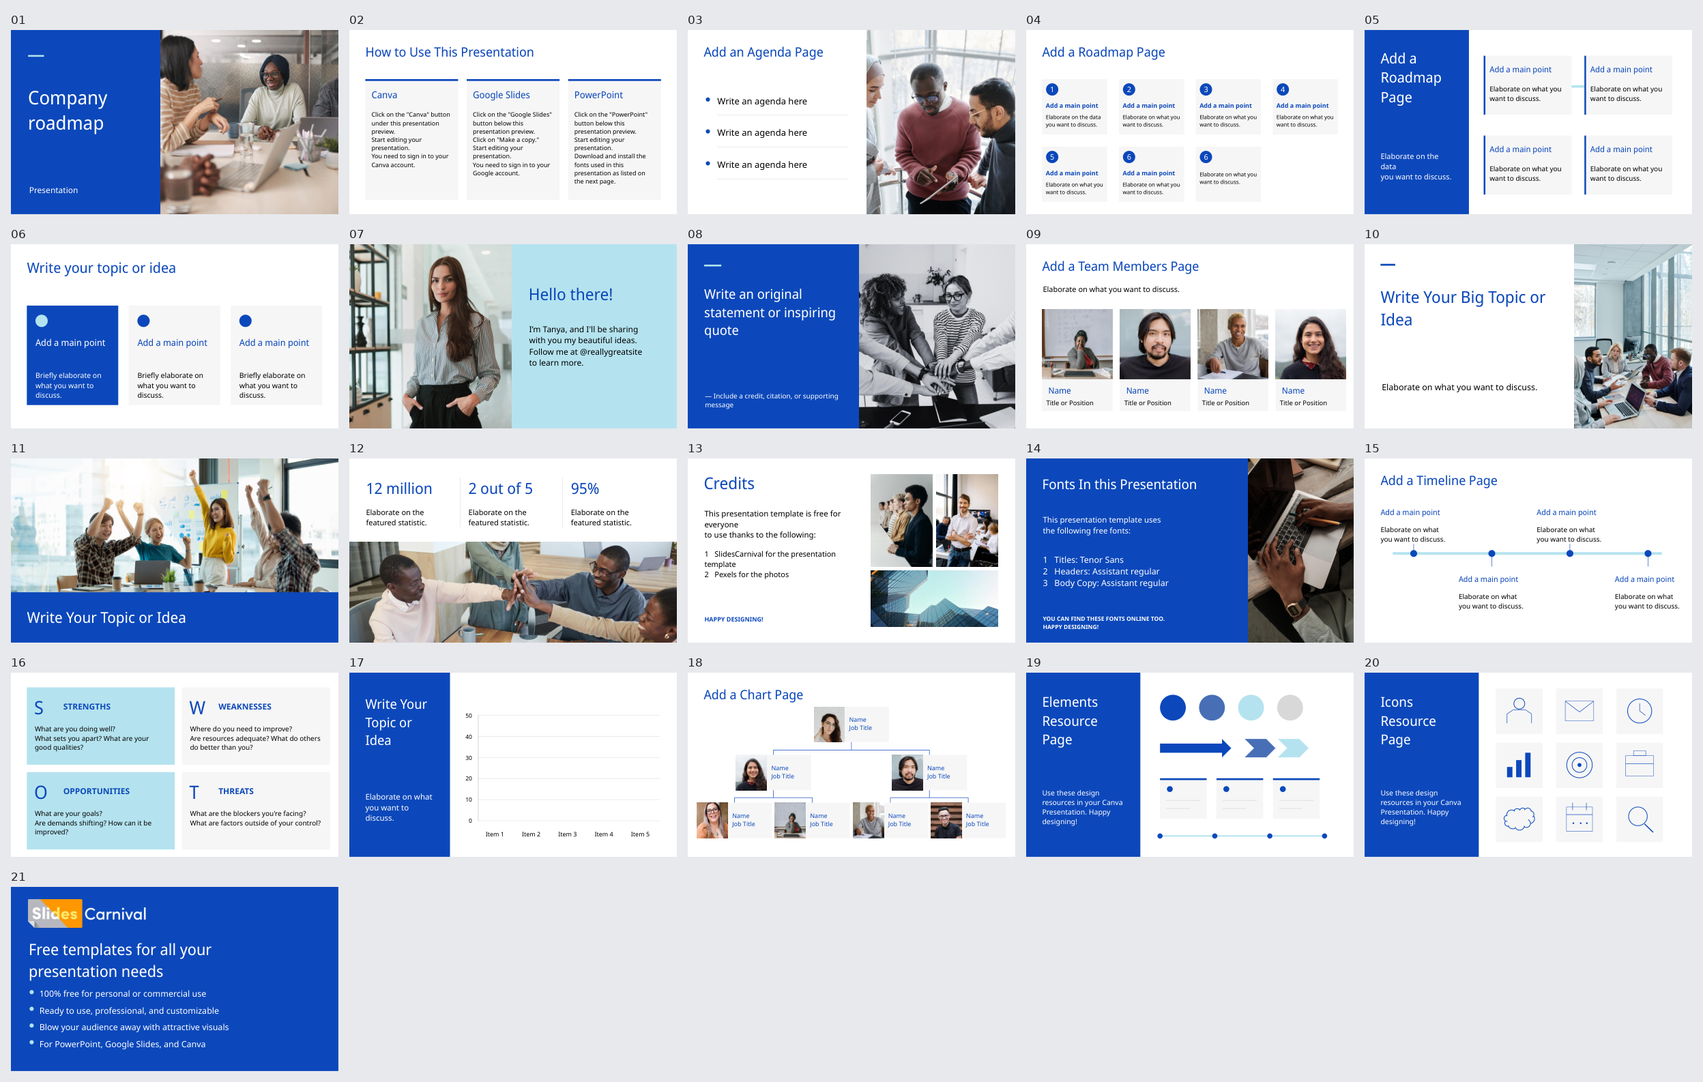
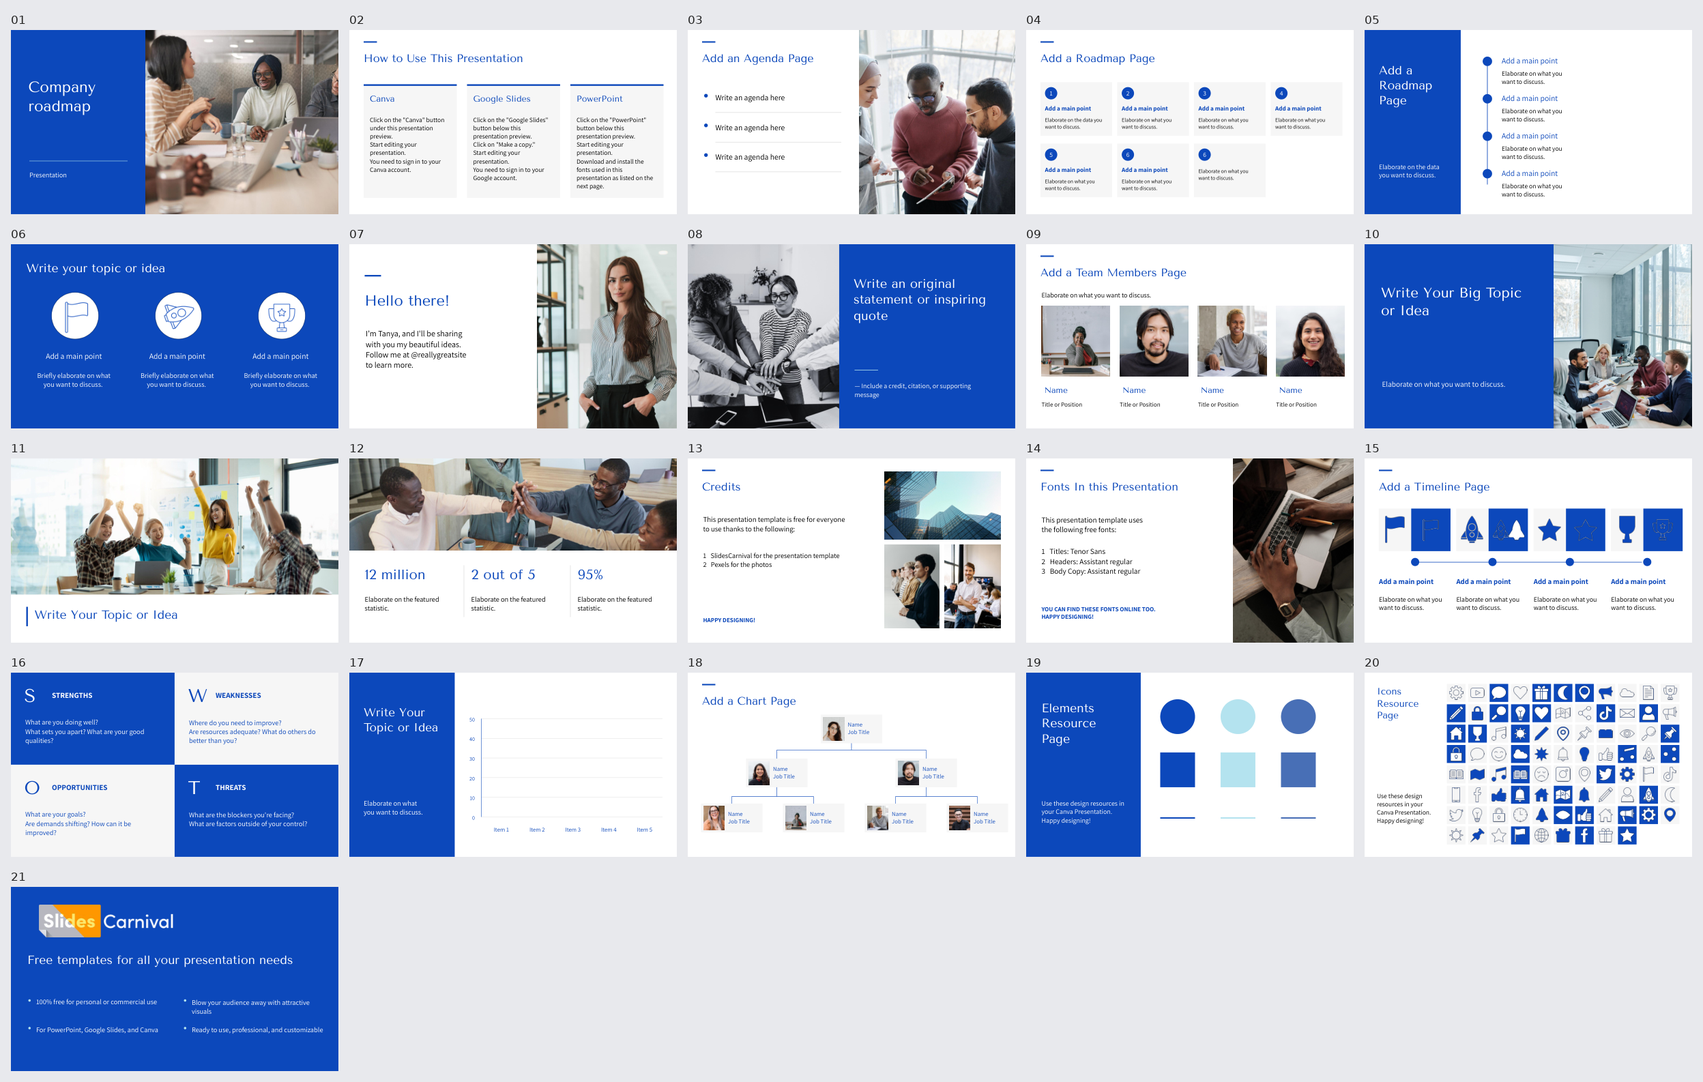
Replace three AI decks with generations using original complex artwork

diff --git a/SlideSkeleton/index.html b/SlideSkeleton/index.html
@@ -37,7 +37,7 @@ dialog{border:1px solid #ddd;border-radius:6px;padding:0;width:min(1500px,94vw);
 </div>
 <dialog id="viewer" aria-labelledby="viewer-title"><div class="modal-bar"><strong id="viewer-title"></strong><span class="modal-tip">点击图片切换原始尺寸 · Esc 关闭</span><button type="button" class="zoom" id="zoom" aria-pressed="false">放大细看</button><a id="viewer-original" target="_blank" rel="noopener">打开总览 PNG ↗</a><button type="button" class="close" id="close">关闭 ×</button></div><div class="modal-body"><img id="viewer-image" alt=""></div></dialog>
 <script>
-const data=[{"id": "01", "style": "大胆撞色", "decks": [{"kind": "human", "pages": 24, "source": "Multicolored Geometric Modern Pitch Deck Video Business Presentation", "label": "Human · 骨架", "variant": "skeleton", "image": "01/human/overview.png"}, {"label": "AI · 骨架", "kind": "codex", "variant": "skeleton", "image": "01/generated/overview.png", "pages": 24, "source": "gpt-6-astra"}, {"kind": "human", "pages": 24, "source": "补齐原稿字体后渲染 · Multicolored Geometric Modern Pitch Deck Video Business Presentation", "label": "Human · 原图", "variant": "original", "image": "01/human/original_overview.png"}, {"label": "AI · 给定素材生成", "kind": "codex", "variant": "generated", "image": "01/content_codex/overview.png", "pages": 24, "source": "gpt-6-astra · Human 01 同页文字、图片与整套风格"}]}, {"id": "02", "style": "未来科技", "decks": [{"kind": "human", "pages": 34, "source": "Black and Blue Tech Theme for Career Day Presentation", "label": "Human · 骨架", "variant": "skeleton", "image": "02/human/overview.png"}, {"label": "AI · 骨架", "kind": "codex", "variant": "skeleton", "image": "02/generated/overview.png", "pages": 34, "source": "gpt-6-astra"}, {"kind": "human", "pages": 34, "source": "补齐原稿字体后渲染 · Black and Blue Tech Theme for Career Day Presentation", "label": "Human · 原图", "variant": "original", "image": "02/human/original_overview.png"}, {"label": "AI · 给定素材生成", "kind": "codex", "variant": "generated", "image": "02/content_codex/overview.png", "pages": 34, "source": "gpt-6-astra · Human 01 同页文字、图片与整套风格"}]}, {"id": "03", "style": "蓝白商务", "decks": [{"kind": "human", "pages": 21, "source": "Blue and White Simple Basic Company Roadmap Presentation", "label": "Human · 骨架", "variant": "skeleton", "image": "03/human/overview.png"}, {"label": "AI · 骨架", "kind": "codex", "variant": "skeleton", "image": "03/generated/overview.png", "pages": 21, "source": "gpt-6-astra"}, {"kind": "human", "pages": 21, "source": "补齐原稿字体后渲染 · Blue and White Simple Basic Company Roadmap Presentation", "label": "Human · 原图", "variant": "original", "image": "03/human/original_overview.png"}, {"label": "AI · 给定素材生成", "kind": "codex", "variant": "generated", "image": "03/content_codex/overview.png", "pages": 21, "source": "gpt-6-astra · Human 01 同页文字、图片与整套风格"}]}, {"id": "04", "style": "粉色极简", "decks": [{"kind": "human", "pages": 23, "source": "Pink and Gray Modern Minimalistic Aesthetic Beauty Vlogger CV Marketing Presentation", "label": "Human · 骨架", "variant": "skeleton", "image": "04/human/overview.png"}, {"label": "AI · 骨架", "kind": "codex", "variant": "skeleton", "image": "04/generated/overview.png", "pages": 23, "source": "gpt-6-astra"}, {"kind": "human", "pages": 23, "source": "补齐原稿字体后渲染 · Pink and Gray Modern Minimalistic Aesthetic Beauty Vlogger CV Marketing Presentation", "label": "Human · 原图", "variant": "original", "image": "04/human/original_overview.png"}, {"label": "AI · 给定素材生成", "kind": "codex", "variant": "generated", "image": "04/content_codex/overview.png", "pages": 23, "source": "gpt-6-astra · Human 01 同页文字、图片与整套风格"}]}, {"id": "05", "style": "黑白极简", "decks": [{"kind": "human", "pages": 25, "source": "Black And White Minimal Architecture Portfolio Presentation", "label": "Human · 骨架", "variant": "skeleton", "image": "05/human/overview.png"}, {"label": "AI · 骨架", "kind": "codex", "variant": "skeleton", "image": "05/generated/overview.png", "pages": 25, "source": "gpt-6-astra"}, {"kind": "human", "pages": 25, "source": "补齐原稿字体后渲染 · Black And White Minimal Architecture Portfolio Presentation", "label": "Human · 原图", "variant": "original", "image": "05/human/original_overview.png"}, {"label": "AI · 给定素材生成", "kind": "codex", "variant": "generated", "image": "05/content_codex/overview.png", "pages": 25, "source": "gpt-6-astra · Human 01 同页文字、图片与整套风格"}]}, {"id": "06", "style": "霓虹复古", "decks": [{"kind": "human", "pages": 17, "source": "Retro Posting Signs Newsletter ", "label": "Human · 骨架", "variant": "skeleton", "image": "06/human/overview.png"}, {"label": "AI · 骨架", "kind": "codex", "variant": "skeleton", "image": "06/generated/overview.png", "pages": 17, "source": "gpt-6-astra"}, {"kind": "human", "pages": 17, "source": "补齐原稿字体后渲染 · Retro Posting Signs Newsletter ", "label": "Human · 原图", "variant": "original", "image": "06/human/original_overview.png"}, {"label": "AI · 给定素材生成", "kind": "codex", "variant": "generated", "image": "06/content_codex/overview.png", "pages": 17, "source": "gpt-6-astra · Human 01 同页文字、图片与整套风格"}]}, {"id": "07", "style": "自然植物", "decks": [{"kind": "human", "pages": 28, "source": "Floral Drawings Slides · SlidesCarnival", "label": "Human · 骨架", "variant": "skeleton", "image": "07/human/overview.png"}, {"label": "AI · 骨架", "kind": "codex", "variant": "skeleton", "image": "07/generated/overview.png", "pages": 28, "source": "gpt-6-astra"}, {"kind": "human", "pages": 28, "source": "补齐原稿字体后渲染 · Floral Drawings Slides · SlidesCarnival", "label": "Human · 原图", "variant": "original", "image": "07/human/original_overview.png"}, {"label": "AI · 给定素材生成", "kind": "codex", "variant": "generated", "image": "07/content_codex/overview.png", "pages": 28, "source": "gpt-6-astra · Human 01 同页文字、图片与整套风格"}]}, {"id": "08", "style": "可爱手绘", "decks": [{"kind": "human", "pages": 28, "source": "Red Blue and Yellow Cute Simple Illustrative Doodles Introducing Myself Creative Presentation · SlidesCarnival", "label": "Human · 骨架", "variant": "skeleton", "image": "08/human/overview.png"}, {"label": "AI · 骨架", "kind": "codex", "variant": "skeleton", "image": "08/generated/overview.png", "pages": 28, "source": "gpt-6-astra"}, {"kind": "human", "pages": 28, "source": "补齐原稿字体后渲染 · Red Blue and Yellow Cute Simple Illustrative Doodles Introducing Myself Creative Presentation · SlidesCarnival", "label": "Human · 原图", "variant": "original", "image": "08/human/original_overview.png"}, {"label": "AI · 给定素材生成", "kind": "codex", "variant": "generated", "image": "08/content_codex/overview.png", "pages": 28, "source": "gpt-6-astra · Human 01 同页文字、图片与整套风格"}]}, {"id": "09", "style": "金色优雅", "decks": [{"kind": "human", "pages": 22, "source": "Gold Elegant Branding Kit Presentation", "label": "Human · 骨架", "variant": "skeleton", "image": "09/human/overview.png"}, {"label": "AI · 骨架", "kind": "codex", "variant": "skeleton", "image": "09/generated/overview.png", "pages": 22, "source": "gpt-6-astra"}, {"kind": "human", "pages": 22, "source": "补齐原稿字体后渲染 · Gold Elegant Branding Kit Presentation", "label": "Human · 原图", "variant": "original", "image": "09/human/original_overview.png"}, {"label": "AI · 给定素材生成", "kind": "codex", "variant": "generated", "image": "09/content_codex/overview.png", "pages": 22, "source": "gpt-6-astra · Human 01 同页文字、图片与整套风格"}]}, {"id": "10", "style": "几何抽象", "decks": [{"kind": "human", "pages": 17, "source": "Geometric History of Graphic Design Slides", "label": "Human · 骨架", "variant": "skeleton", "image": "10/human/overview.png"}, {"label": "AI · 骨架", "kind": "codex", "variant": "skeleton", "image": "10/generated/overview.png", "pages": 17, "source": "gpt-6-astra"}, {"kind": "human", "pages": 17, "source": "补齐原稿字体后渲染 · Geometric History of Graphic Design Slides", "label": "Human · 原图", "variant": "original", "image": "10/human/original_overview.png"}, {"label": "AI · 给定素材生成", "kind": "codex", "variant": "generated", "image": "10/content_codex/overview.png", "pages": 17, "source": "gpt-6-astra · Human 01 同页文字、图片与整套风格"}]}];
+const data=[{"id": "01", "style": "大胆撞色", "decks": [{"kind": "human", "pages": 24, "source": "Multicolored Geometric Modern Pitch Deck Video Business Presentation", "label": "Human · 骨架", "variant": "skeleton", "image": "01/human/overview.png"}, {"label": "AI · 骨架", "kind": "codex", "variant": "skeleton", "image": "01/generated/overview.png", "pages": 24, "source": "gpt-6-astra"}, {"kind": "human", "pages": 24, "source": "补齐原稿字体后渲染 · Multicolored Geometric Modern Pitch Deck Video Business Presentation", "label": "Human · 原图", "variant": "original", "image": "01/human/original_overview.png"}, {"label": "AI · 给定素材生成", "kind": "codex", "variant": "generated", "image": "01/content_codex/overview.png", "pages": 24, "source": "gpt-6-astra · 同页文字、已提取图片与风格"}], "material_note": "原有文字、图片与风格输入"}, {"id": "02", "style": "未来科技", "decks": [{"kind": "human", "pages": 34, "source": "Black and Blue Tech Theme for Career Day Presentation", "label": "Human · 骨架", "variant": "skeleton", "image": "02/human/overview.png"}, {"label": "AI · 骨架", "kind": "codex", "variant": "skeleton", "image": "02/generated/overview.png", "pages": 34, "source": "gpt-6-astra"}, {"kind": "human", "pages": 34, "source": "补齐原稿字体后渲染 · Black and Blue Tech Theme for Career Day Presentation", "label": "Human · 原图", "variant": "original", "image": "02/human/original_overview.png"}, {"label": "AI · 给定素材生成", "kind": "codex", "variant": "generated", "image": "02/content_codex/overview.png", "pages": 34, "source": "gpt-6-astra · 同页文字、已提取图片与风格"}], "material_note": "原有文字、图片与风格输入"}, {"id": "03", "style": "蓝白商务", "decks": [{"kind": "human", "pages": 21, "source": "Blue and White Simple Basic Company Roadmap Presentation", "label": "Human · 骨架", "variant": "skeleton", "image": "03/human/overview.png"}, {"label": "AI · 骨架", "kind": "codex", "variant": "skeleton", "image": "03/generated/overview.png", "pages": 21, "source": "gpt-6-astra"}, {"kind": "human", "pages": 21, "source": "补齐原稿字体后渲染 · Blue and White Simple Basic Company Roadmap Presentation", "label": "Human · 原图", "variant": "original", "image": "03/human/original_overview.png"}, {"label": "AI · 给定素材生成", "kind": "codex", "variant": "generated", "image": "03/content_codex/overview.png", "pages": 21, "source": "gpt-6-astra · 同页图文、复杂图标及装饰素材"}], "material_note": "已补齐复杂图标和装饰素材"}, {"id": "04", "style": "粉色极简", "decks": [{"kind": "human", "pages": 23, "source": "Pink and Gray Modern Minimalistic Aesthetic Beauty Vlogger CV Marketing Presentation", "label": "Human · 骨架", "variant": "skeleton", "image": "04/human/overview.png"}, {"label": "AI · 骨架", "kind": "codex", "variant": "skeleton", "image": "04/generated/overview.png", "pages": 23, "source": "gpt-6-astra"}, {"kind": "human", "pages": 23, "source": "补齐原稿字体后渲染 · Pink and Gray Modern Minimalistic Aesthetic Beauty Vlogger CV Marketing Presentation", "label": "Human · 原图", "variant": "original", "image": "04/human/original_overview.png"}, {"label": "AI · 给定素材生成", "kind": "codex", "variant": "generated", "image": "04/content_codex/overview.png", "pages": 23, "source": "gpt-6-astra · 同页文字、已提取图片与风格"}], "material_note": "原有文字、图片与风格输入"}, {"id": "05", "style": "黑白极简", "decks": [{"kind": "human", "pages": 25, "source": "Black And White Minimal Architecture Portfolio Presentation", "label": "Human · 骨架", "variant": "skeleton", "image": "05/human/overview.png"}, {"label": "AI · 骨架", "kind": "codex", "variant": "skeleton", "image": "05/generated/overview.png", "pages": 25, "source": "gpt-6-astra"}, {"kind": "human", "pages": 25, "source": "补齐原稿字体后渲染 · Black And White Minimal Architecture Portfolio Presentation", "label": "Human · 原图", "variant": "original", "image": "05/human/original_overview.png"}, {"label": "AI · 给定素材生成", "kind": "codex", "variant": "generated", "image": "05/content_codex/overview.png", "pages": 25, "source": "gpt-6-astra · 同页文字、已提取图片与风格"}], "material_note": "原有文字、图片与风格输入"}, {"id": "06", "style": "霓虹复古", "decks": [{"kind": "human", "pages": 17, "source": "Retro Posting Signs Newsletter ", "label": "Human · 骨架", "variant": "skeleton", "image": "06/human/overview.png"}, {"label": "AI · 骨架", "kind": "codex", "variant": "skeleton", "image": "06/generated/overview.png", "pages": 17, "source": "gpt-6-astra"}, {"kind": "human", "pages": 17, "source": "补齐原稿字体后渲染 · Retro Posting Signs Newsletter ", "label": "Human · 原图", "variant": "original", "image": "06/human/original_overview.png"}, {"label": "AI · 给定素材生成", "kind": "codex", "variant": "generated", "image": "06/content_codex/overview.png", "pages": 17, "source": "gpt-6-astra · 同页文字、已提取图片与风格"}], "material_note": "原有文字、图片与风格输入"}, {"id": "07", "style": "自然植物", "decks": [{"kind": "human", "pages": 28, "source": "Floral Drawings Slides · SlidesCarnival", "label": "Human · 骨架", "variant": "skeleton", "image": "07/human/overview.png"}, {"label": "AI · 骨架", "kind": "codex", "variant": "skeleton", "image": "07/generated/overview.png", "pages": 28, "source": "gpt-6-astra"}, {"kind": "human", "pages": 28, "source": "补齐原稿字体后渲染 · Floral Drawings Slides · SlidesCarnival", "label": "Human · 原图", "variant": "original", "image": "07/human/original_overview.png"}, {"label": "AI · 给定素材生成", "kind": "codex", "variant": "generated", "image": "07/content_codex/overview.png", "pages": 28, "source": "gpt-6-astra · 同页图文、复杂图标及装饰素材"}], "material_note": "已补齐复杂图标和装饰素材"}, {"id": "08", "style": "可爱手绘", "decks": [{"kind": "human", "pages": 28, "source": "Red Blue and Yellow Cute Simple Illustrative Doodles Introducing Myself Creative Presentation · SlidesCarnival", "label": "Human · 骨架", "variant": "skeleton", "image": "08/human/overview.png"}, {"label": "AI · 骨架", "kind": "codex", "variant": "skeleton", "image": "08/generated/overview.png", "pages": 28, "source": "gpt-6-astra"}, {"kind": "human", "pages": 28, "source": "补齐原稿字体后渲染 · Red Blue and Yellow Cute Simple Illustrative Doodles Introducing Myself Creative Presentation · SlidesCarnival", "label": "Human · 原图", "variant": "original", "image": "08/human/original_overview.png"}, {"label": "AI · 给定素材生成", "kind": "codex", "variant": "generated", "image": "08/content_codex/overview.png", "pages": 28, "source": "gpt-6-astra · 同页图文、复杂图标及装饰素材"}], "material_note": "已补齐复杂图标和装饰素材"}, {"id": "09", "style": "金色优雅", "decks": [{"kind": "human", "pages": 22, "source": "Gold Elegant Branding Kit Presentation", "label": "Human · 骨架", "variant": "skeleton", "image": "09/human/overview.png"}, {"label": "AI · 骨架", "kind": "codex", "variant": "skeleton", "image": "09/generated/overview.png", "pages": 22, "source": "gpt-6-astra"}, {"kind": "human", "pages": 22, "source": "补齐原稿字体后渲染 · Gold Elegant Branding Kit Presentation", "label": "Human · 原图", "variant": "original", "image": "09/human/original_overview.png"}, {"label": "AI · 给定素材生成", "kind": "codex", "variant": "generated", "image": "09/content_codex/overview.png", "pages": 22, "source": "gpt-6-astra · 同页文字、已提取图片与风格"}], "material_note": "原有文字、图片与风格输入"}, {"id": "10", "style": "几何抽象", "decks": [{"kind": "human", "pages": 17, "source": "Geometric History of Graphic Design Slides", "label": "Human · 骨架", "variant": "skeleton", "image": "10/human/overview.png"}, {"label": "AI · 骨架", "kind": "codex", "variant": "skeleton", "image": "10/generated/overview.png", "pages": 17, "source": "gpt-6-astra"}, {"kind": "human", "pages": 17, "source": "补齐原稿字体后渲染 · Geometric History of Graphic Design Slides", "label": "Human · 原图", "variant": "original", "image": "10/human/original_overview.png"}, {"label": "AI · 给定素材生成", "kind": "codex", "variant": "generated", "image": "10/content_codex/overview.png", "pages": 17, "source": "gpt-6-astra · 同页文字、已提取图片与风格"}], "material_note": "原有文字、图片与风格输入"}];
 const $=id=>document.getElementById(id);
 const escapeHTML=value=>String(value).replace(/[&<>"']/g,c=>({'&':'&amp;','<':'&lt;','>':'&gt;','"':'&quot;',"'":'&#39;'}[c]));
 $('style-total').textContent=data.length;
@@ -45,7 +45,7 @@ const decks=data.flatMap(row=>row.decks);
 $('human-total').textContent=decks.filter(deck=>deck.kind==='human'&&deck.variant==='skeleton').length;
 $('model-total').textContent=new Set(decks.filter(deck=>deck.kind==='codex').map(deck=>deck.image)).size;
 for(const row of data){const option=document.createElement('option');option.value=row.id;option.textContent=`${row.id} ${row.style}`;$('style').append(option)}
-$('rows').innerHTML=data.map(row=>`<section class="style-row" data-id="${row.id}" aria-labelledby="style-${row.id}"><div class="row-heading"><span class="row-id">STYLE ${row.id}</span><h2 id="style-${row.id}">${escapeHTML(row.style)}</h2><span class="row-note">Human / AI · 相同页数与素材</span></div><div class="grid">${row.decks.map((deck,i)=>`<article class="deck" data-variant="${deck.variant}"><h3 class="deck-heading"><span class="deck-name">${escapeHTML(deck.label.split(" · ")[0])}</span><span class="deck-variant">${deck.variant==='original'?'原图':deck.variant==='generated'?'给定素材生成':'骨架'}</span><span class="heading-pages">${deck.pages} 页</span>${deck.kind==='codex'?'<span class="model-tag">CODEX</span>':deck.kind==='api'?'<span class="model-tag">OPENROUTER</span>':''}</h3><button class="preview" data-row="${row.id}" data-deck="${i}" aria-label="放大 ${escapeHTML(row.style)} ${deck.label} 总览"><img src="${deck.image}" alt="${escapeHTML(row.style)} · ${deck.label} · ${deck.pages} 页总览" loading="${row.id==='01'?'eager':'lazy'}" decoding="async"></button><p class="source" title="${escapeHTML(deck.source)}">${escapeHTML(deck.source)}</p><div class="deck-footer"><span class="page-count"><span class="dot"></span>${deck.pages} 页</span><a href="${deck.image}" target="_blank" rel="noopener">PNG ↗</a>${deck.pdf?`<a href="${deck.pdf}" target="_blank" rel="noopener">PDF ↗</a>`:''}${deck.pptx?`<a href="${deck.pptx}" download>PPTX ↓</a>`:''}</div></article>`).join('')}</div></section>`).join('');
+$('rows').innerHTML=data.map(row=>`<section class="style-row" data-id="${row.id}" aria-labelledby="style-${row.id}"><div class="row-heading"><span class="row-id">STYLE ${row.id}</span><h2 id="style-${row.id}">${escapeHTML(row.style)}</h2><span class="row-note">${escapeHTML(row.material_note)}</span></div><div class="grid">${row.decks.map((deck,i)=>`<article class="deck" data-variant="${deck.variant}"><h3 class="deck-heading"><span class="deck-name">${escapeHTML(deck.label.split(" · ")[0])}</span><span class="deck-variant">${deck.variant==='original'?'原图':deck.variant==='generated'?'给定素材生成':'骨架'}</span><span class="heading-pages">${deck.pages} 页</span>${deck.kind==='codex'?'<span class="model-tag">CODEX</span>':deck.kind==='api'?'<span class="model-tag">OPENROUTER</span>':''}</h3><button class="preview" data-row="${row.id}" data-deck="${i}" aria-label="放大 ${escapeHTML(row.style)} ${deck.label} 总览"><img src="${deck.image}" alt="${escapeHTML(row.style)} · ${deck.label} · ${deck.pages} 页总览" loading="${row.id==='01'?'eager':'lazy'}" decoding="async"></button><p class="source" title="${escapeHTML(deck.source)}">${escapeHTML(deck.source)}</p><div class="deck-footer"><span class="page-count"><span class="dot"></span>${deck.pages} 页</span><a href="${deck.image}" target="_blank" rel="noopener">PNG ↗</a>${deck.pdf?`<a href="${deck.pdf}" target="_blank" rel="noopener">PDF ↗</a>`:''}${deck.pptx?`<a href="${deck.pptx}" download>PPTX ↓</a>`:''}</div></article>`).join('')}</div></section>`).join('');
 function filter(){const term=$('search').value.trim().toLowerCase(),style=$('style').value;let count=0;for(const row of data){const visible=(style==='all'||row.id===style)&&`${row.id} ${row.style}`.toLowerCase().includes(term);document.querySelector(`[data-id="${row.id}"]`).hidden=!visible;if(visible)count++}$('empty').hidden=count!==0;$('result-count').textContent=`${count} / ${data.length} 种风格`}
 $('search').addEventListener('input',filter);$('style').addEventListener('change',filter);filter();
 $('rows').addEventListener('click',event=>{const button=event.target.closest('.preview');if(!button)return;const row=data.find(r=>r.id===button.dataset.row),deck=row.decks[Number(button.dataset.deck)];$('viewer-title').textContent=`${row.id} ${row.style} / ${deck.label} · ${deck.pages} 页`;$('viewer-image').src=deck.image;$('viewer-image').alt=`${row.style} ${deck.label} 总览`;$('viewer-image').classList.remove('full');$('zoom').textContent='放大细看';$('zoom').setAttribute('aria-pressed','false');$('viewer-original').href=deck.image;$('viewer').showModal();document.querySelector('.modal-body').scrollTo(0,0)});
